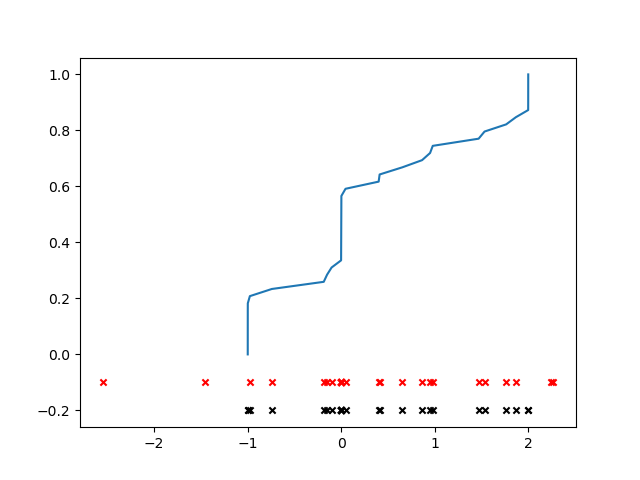
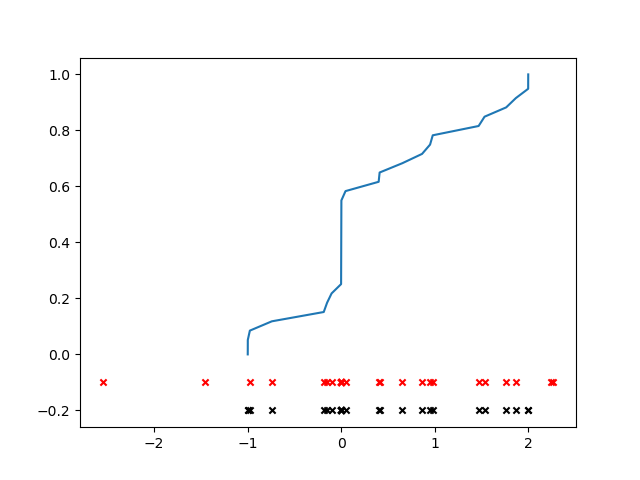
debugging bounded boxcar rank histogram

diff --git a/pyPESE/distributions/bounded_boxcar_rank_histogram.py b/pyPESE/distributions/bounded_boxcar_rank_histogram.py
@@ -65,7 +65,7 @@ class bounded_boxcar_rank_histogram:
         return
 
     # Fit BBRH distirbution to 1d data
-    def fit( data1d ):
+    def fit( data1d,  min_bound, max_bound ):
         # For each variable, fit BBRH distribution
         return BBRH_fit_dist_to_ens( data1d, min_bound, max_bound )
 
@@ -84,7 +84,7 @@ class bounded_boxcar_rank_histogram:
     # Function to draw samples consistent with fitted BBRH
     def rvs( self, shape ):
         uniform_samples1d = np.random.uniform( size=np.prod(shape) )
-        samples1d = eval_bbrh_inv_cdf( uniform_samples1d )
+        samples1d = self.ppf( uniform_samples1d )
         return samples1d.reshape(shape)
     
 # ------ End of BBRH distribution SciPy-like class
@@ -406,19 +406,158 @@ def eval_bbrh_pdf( eval_pts, bbrh_pts, bbrh_cdf ):
 
 
 
+
+
+
+
+
+
+
+
+
+
+
+
+
+
+
+
+
+
+
+
+'''
+    Function to preprocess ensemble to handle out-of-bounds values and duplicate values
+
+    Such values can cause issues with certain distributions, and issues with resampling.
+
+    Mandatory arguments:
+    --------------------
+    1) input_ens1d
+            1D NumPy array containing an ensemble of values for a forecast model variable
+    2) min_bound
+            User-specified scalar value indicating the left boundary of BBRH's support
+    3) max_bound
+            User-specified scalar value indicating the right boundary of BBRH's support
+
+    Output:
+    -------
+    1) ens1d
+            1D NumPy array containing preprocessed ensemble (NOT SORTED!!!)
+    
+'''
+def preprocess_ens( input_ens1d, min_bound, max_bound ):
+
+    # Sort ensemble values
+    # --------------------
+    # This procedure also guards against unintentional object-passing effects because
+    # an internal copy of the ensemble of values is generated.
+    ens1d = np.sort( input_ens1d )
+    ens_size = ens1d.shape[0]
+
+    
+    # Determine rank statistics of the input ensemble
+    # -----------------------------------------------
+    ens1d_inds = np.argsort( np.argsort( input_ens1d ) )
+
+
+    # Define an offset value
+    # ----------------------
+    # To handle value duplicate & out-of-bound values, a small offset must be defined.
+    # The reason for this definition will be apparant later in this function.
+
+    # Determine smallest interval between unique values in BBRH
+    all_vals = np.zeros( ens_size+2, dtype='f' )
+    all_vals[0] = min_bound
+    all_vals[1] = max_bound
+    all_vals[2:] = ens1d
+    uniq_vals = np.unique(ens1d)
+    smallest_uniq_interval = (uniq_vals[1:] - uniq_vals[:-1]).min()
+
+    # Define offset value based on smallest interval between unique values
+    offset_val = smallest_uniq_interval / (ens_size)
+
+
+    # Handling duplicate values within the bounded ensemble
+    # -----------------------------------------------------
+    # Detect duplicates
+    uniq_vals, uniq_cnts = np.unique( ens1d, return_counts=True )
+    flags_duplicated_uniq_vals = uniq_cnts > 1
+
+    # Reconstruct ensemble with all duplicates removed
+    ens1d[:] = np.nan
+    ind = 0
+    for iuniq in range( uniq_vals.shape[0] ):
+        cnt = uniq_cnts[iuniq]
+        new_vals  = np.arange(cnt) * offset_val 
+        new_vals -= np.mean(new_vals)
+        new_vals += uniq_vals[iuniq]
+        ens1d[ind:ind+cnt] = new_vals
+        ind += cnt
+    # ---- End of ensemble reconstruction
+
+
+    # Handling out-of-bounds ensemble values
+    # --------------------------------------
+    # Handle overly small ensemble values by relocating them to the left boundary 
+    # of the support, PLUS some offset
+    flags_oversmall = (ens1d <= min_bound)
+    num_oversmall   = np.sum(flags_oversmall)
+    ens1d[flags_oversmall] = min_bound + ( np.arange(num_oversmall)+1 ) * offset_val
+
+    # Handle overly large ensemble values by relocating them to the right boundary
+    # of the support, MINUS some offset
+    flags_overlarge = (ens1d >= max_bound)
+    num_overlarge   = np.sum( flags_overlarge )
+    ens1d[flags_overlarge] = max_bound - ( np.arange(num_overlarge)+1 )[::-1] * offset_val
+    
+
+    # Return de-sorted preprocessed ensemble
+    return ens1d[ens1d_inds]
+
+
+
+
+
+
+
+
+
+
+
+
+
+
+
+
+
+
+
+
+
 if __name__ == '__main__':
 
     from matplotlib import use as mpl_use
     mpl_use('agg')
     import matplotlib.pyplot as plt
+#     from pyPESE.utility import preprocess_ens
 
     # Generate a test ensemble with degenerate values
     np.random.seed(0)
     raw_ens = np.random.normal( size=30 )
     raw_ens[10:20] = 0.
 
+    ens1d = preprocess_ens( raw_ens, -1, 2)
+
     # Generate BBRH distribution with nasty bounds
-    cdf_locs, cdf_vals, ens1d = BBRH_fit_dist_to_ens( raw_ens, -1, 2. )
+    cdf_locs, cdf_vals = bounded_boxcar_rank_histogram.fit( ens1d, -1., 2. )
+    bbrh_obj = bounded_boxcar_rank_histogram( cdf_locs, cdf_vals )
+
+    random_samples = bbrh_obj.rvs( (1000,1000) )
+
+    print( np.mean( ens1d), np.var(ens1d, ddof=1))
+    print( np.mean( random_samples), np.var(random_samples, ddof=1))
+
 
     plt.plot( cdf_locs, cdf_vals )
     plt.scatter( raw_ens, raw_ens*0-0.1, marker = 'x', s=20, c='r' )
